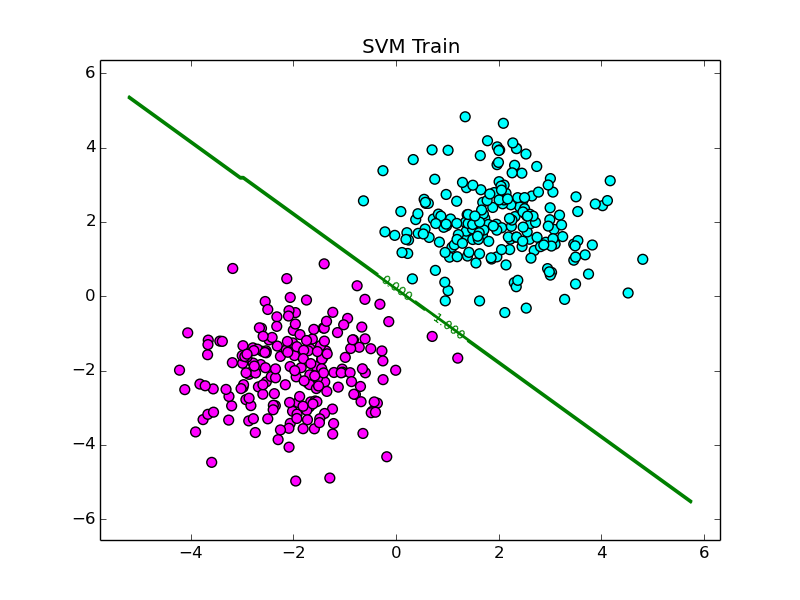
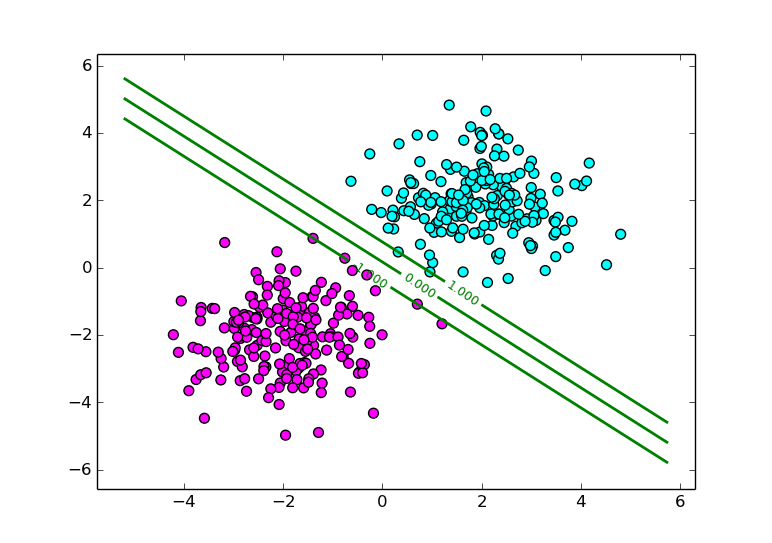
Problem 1

diff --git a/hw2/svm_test.py b/hw2/svm_test.py
@@ -4,7 +4,7 @@ from plotBoundary import *
 from problem1 import *
 
 # parameters
-name = 'nonSep2'
+name = 'stdev1'
 print '======Training======'
 # load data from csv files
 train = loadtxt('newData/data_'+name+'_train.csv')
@@ -12,21 +12,20 @@ train = loadtxt('newData/data_'+name+'_train.csv')
 X = train[:, 0:2].copy()
 Y = train[:, 2:3].copy()
 
+#X = array([[1, 2], [2, 2], [0, 0], [-2, 3]])
+#Y = array([[1], [1], [-1], [-1]])
 X_list = X.tolist()
 Y_list = [y[0] for y in Y.tolist()]
 # Carry out training, primal and/or dual
 #f = gaussian_kernel(X_list, 1)
 f = dot_kernel(X_list)
-alpha = solve_qp(f, X_list, Y_list, 1)
+alpha = solve_qp(f, X_list, Y_list, 100)
+print alpha
 w = get_weights(X_list, Y_list, alpha)
 print "W: ", w
 # Define the predictSVM(x) function, which uses trained parameters
 def predictSVM(x):
-    val = w[0] + sum([w[i + 1] * x[i] for i in range(len(x))]) 
-    if val > 0:
-        return 1.0
-    else:
-        return -1.0
+    return w[0] + sum([w[i + 1] * x[i] for i in range(len(x))]) 
 
 def predictSVM3(x):
   print x
@@ -39,21 +38,29 @@ def predictSVM3(x):
     return -1.0
 
 def geometric_margin(w):
-  return 1 / math.sqrt(dot(w, w))
+  return 1 / math.sqrt(dot(w[1:], w[1:]))
+
+def num_support_vectors(alpha):
+  count = 0
+  for a in alpha:
+    if a > THRESHOLD:
+      count += 1
+  return count
 
 def error_rate(X, Y):
     errors = 0
     for i in range(len(X)):
         guess = predictSVM(X[i])
-        if guess != Y[i]:
+        if (guess > 0 and Y[i] < 0) or (guess < 0 and Y[i] > 1):
             errors += 1
     return errors
 
 print "TEST ERROR: ", error_rate(X, Y)
 print "MARGIN: ", geometric_margin(w)
+print "SUPPORT VECTORS: ", num_support_vectors(alpha)
 
 # plot training results
-plotDecisionBoundary(X, Y, predictSVM, [-1, 0, 1], title = 'SVM Train')
+plotDecisionBoundary(X, Y, predictSVM, [-1, 0, 1])
 
 
 print '======Validation======'
@@ -62,10 +69,10 @@ validate = loadtxt('newData/data_'+name+'_validate.csv')
 X_val = validate[:, 0:2]
 Y_val = validate[:, 2:3]
 
-print "VALIDATION ERROR: ", error_rate(X, Y)
+print "VALIDATION ERROR: ", error_rate(X_val, Y_val)
 
 # plot validation results
-plotDecisionBoundary(X_val, Y_val, predictSVM, [-1, 0, 1], title = 'SVM Validate')
+plotDecisionBoundary(X_val, Y_val, predictSVM, [-1, 0, 1])
 
 #d = {}
 #for b in range(1, 100, 1):

diff --git a/hw2/problem1.py b/hw2/problem1.py
@@ -44,19 +44,14 @@ def build_matrices(kernel, X, Y, C):
 
 def solve_qp(kernel, X, Y, C):
     P, q, G, h, A, b = build_matrices(kernel, X, Y, C)
-    print matrix(P).size
-    print matrix(q).size
-    print matrix(G).size
-    print matrix(h).size
-    print matrix(A).size
-    print matrix(b).size
     sol = solvers.qp(matrix(P, tc = 'd'), matrix(q, tc = 'd'), matrix(G, tc = 'd'), matrix(h, tc = 'd'), matrix(A, tc = 'd'), matrix(b, tc = 'd')) 
     return sol['x']
 
 
-#X = [[1, 2], [2, 2], [0, 0], [-2, 3]]
-#Y = [1, 1, -1, -1]
-#alpha = solve_qp(X, Y, 1)
+X = [[1, 2], [2, 2], [0, 0], [-2, 3]]
+Y = [1, 1, -1, -1]
+f = dot_kernel(X)
+alpha = solve_qp(f, X, Y, 1)
 
 def get_weights(X, Y, alpha):
     w = [0] * len(X[0])
@@ -65,7 +60,7 @@ def get_weights(X, Y, alpha):
         w = component_wise_add(w, term)
     return [get_w0(X, Y, alpha)] + w
 
-THRESHOLD = 0.0000001
+THRESHOLD = 0.0001
 
 def get_w0(X, Y, alpha):
     s = 0
